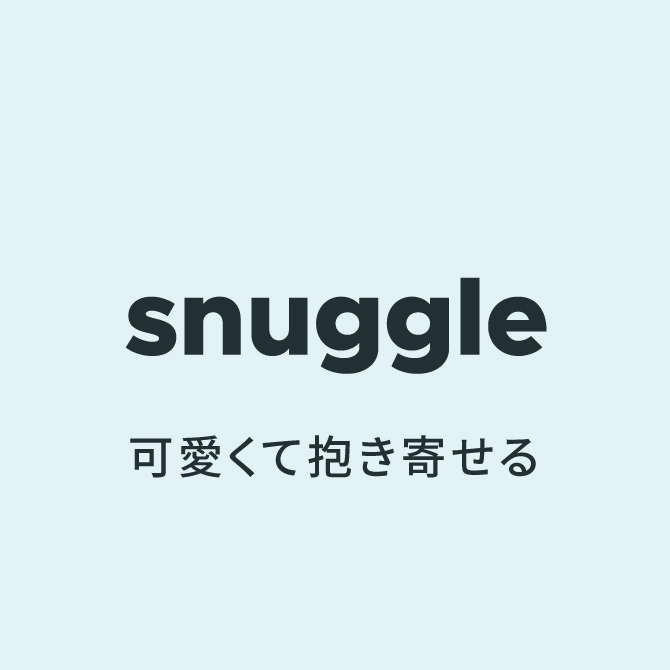
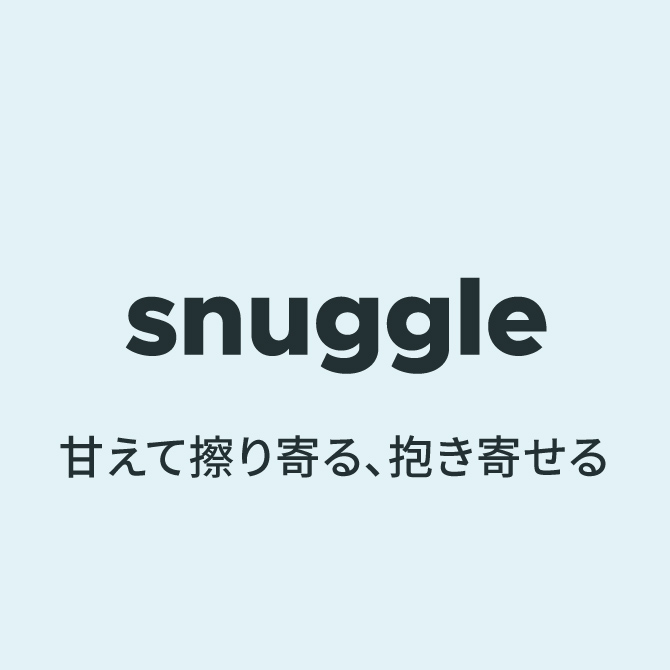
snuggleの記事を加筆修正

Changed region(s): [[0.0896, 0.6269, 0.9254, 0.7164]]

diff --git a/src/components/blog/vocabularySeries.js b/src/components/blog/vocabularySeries.js
@@ -103,7 +103,7 @@ function VocabularySeriesHug({ current }) {
           </li>
           <li>
             <a href="/vocabulary/snuggle/" className={current === 'snuggle' && 'current'}>
-              snuggle（可愛くて抱き寄せる）
+              snuggle（甘えて擦り寄る、抱き寄せる）
             </a>
           </li>
         </ul>
